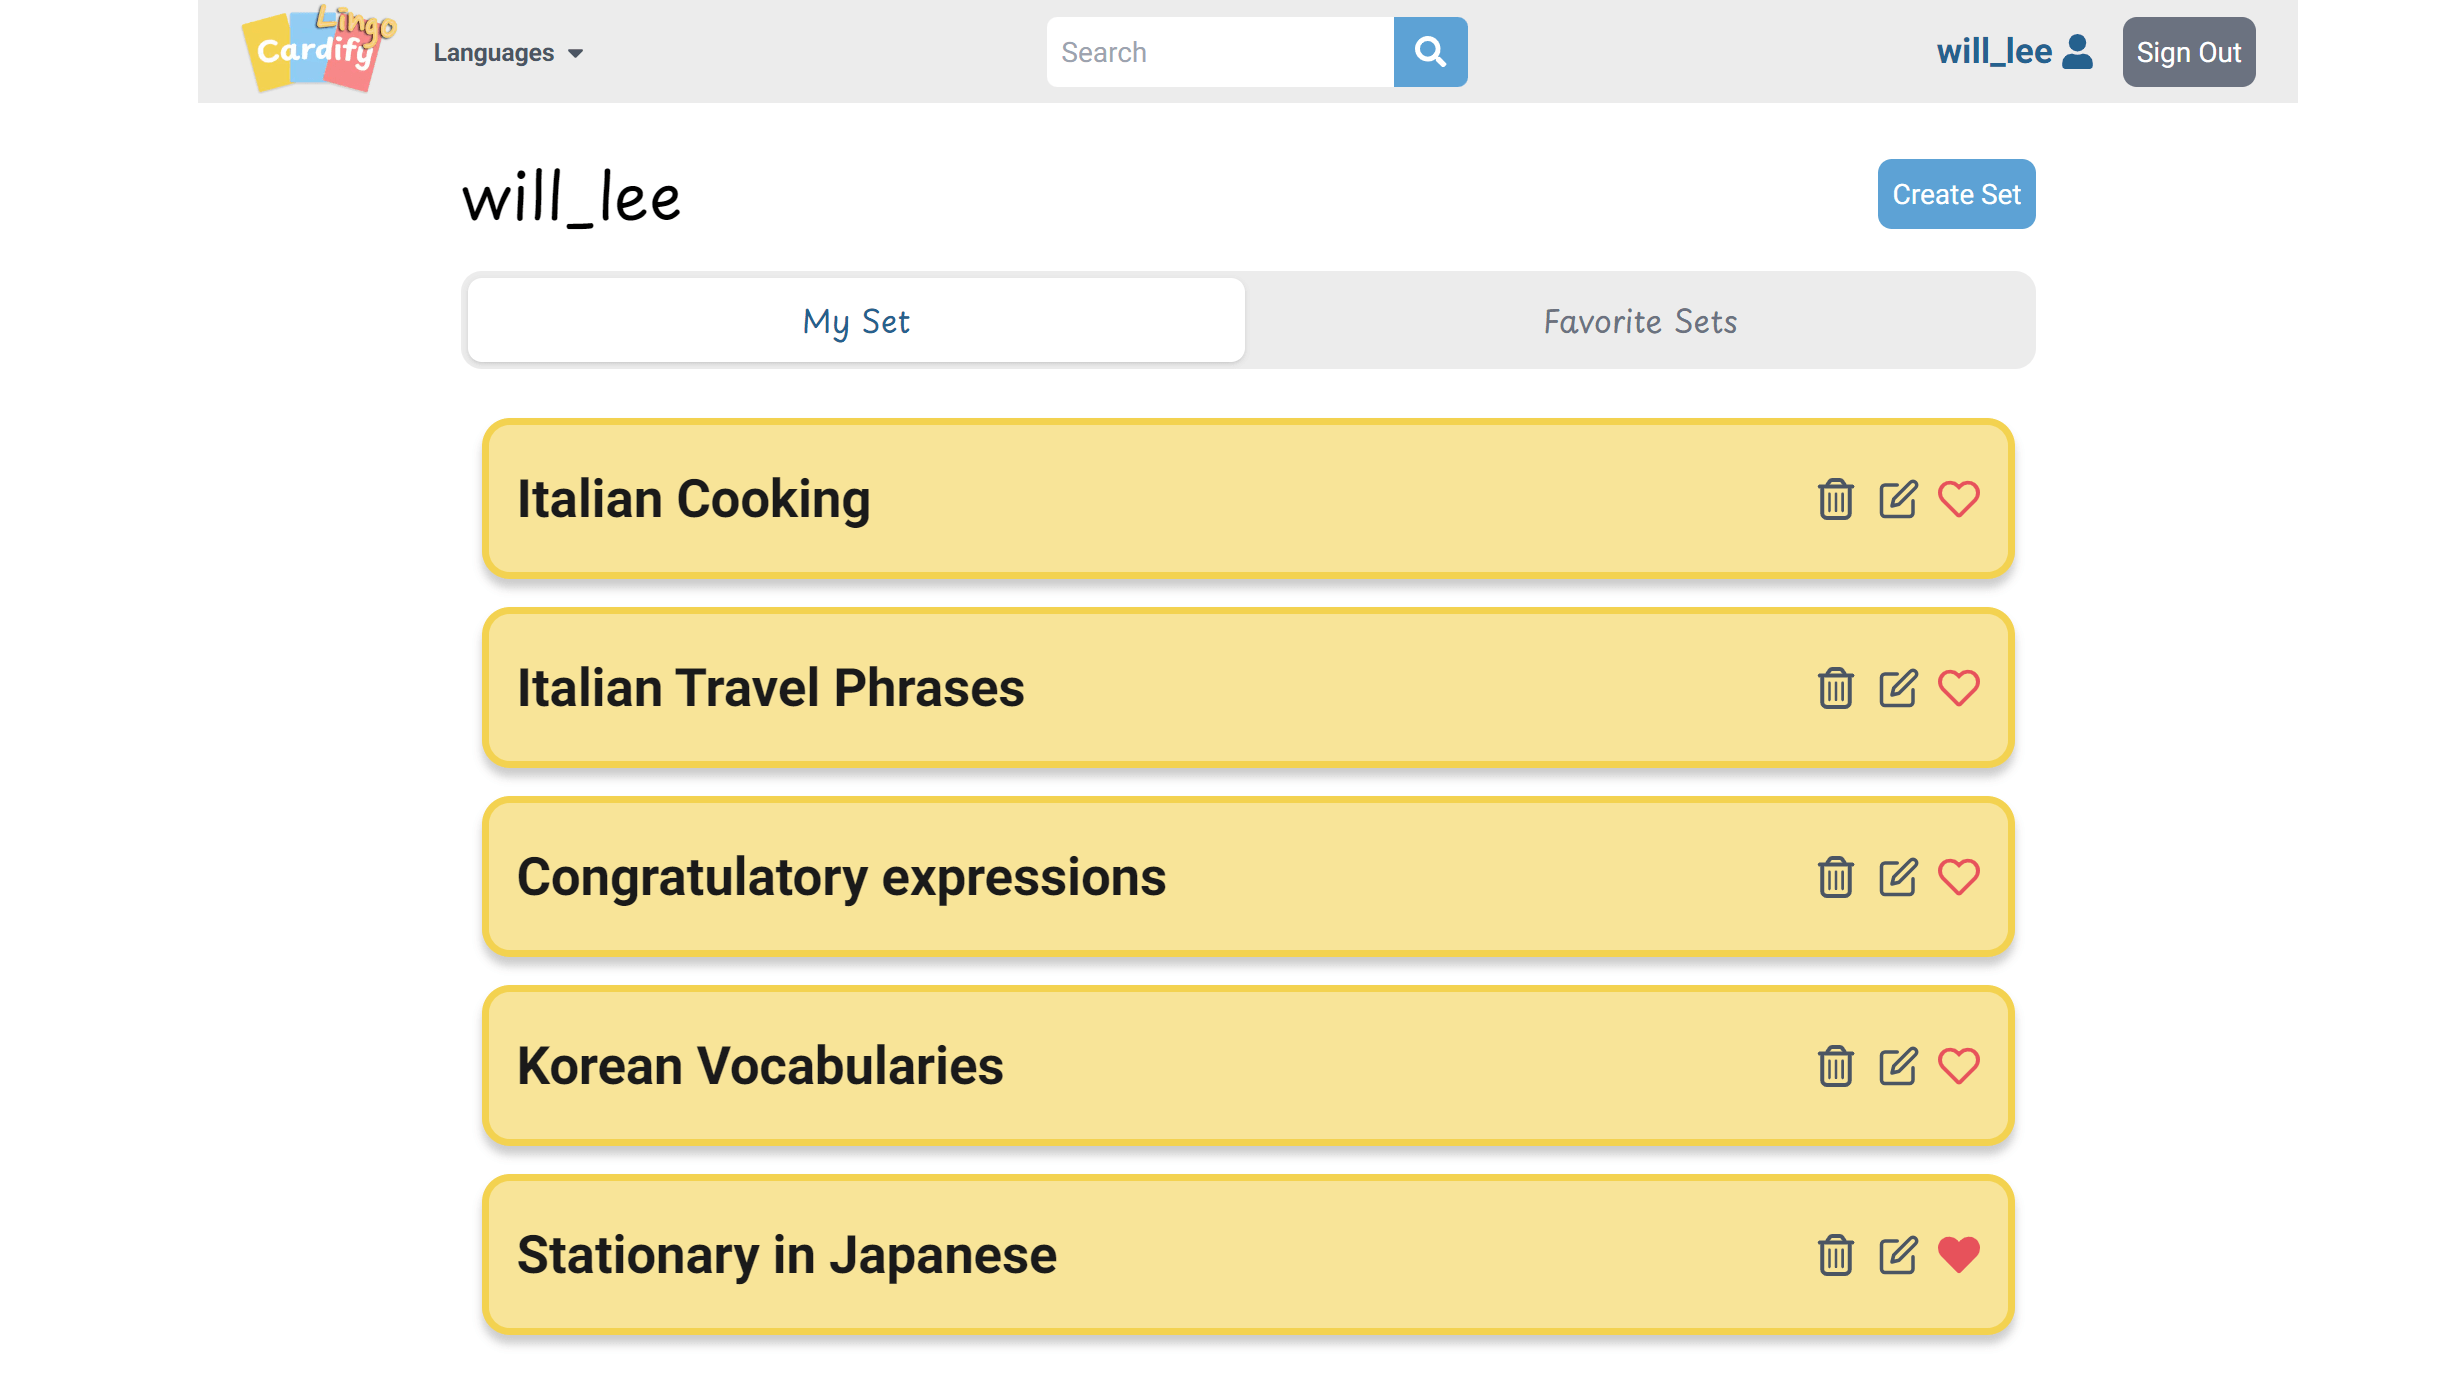
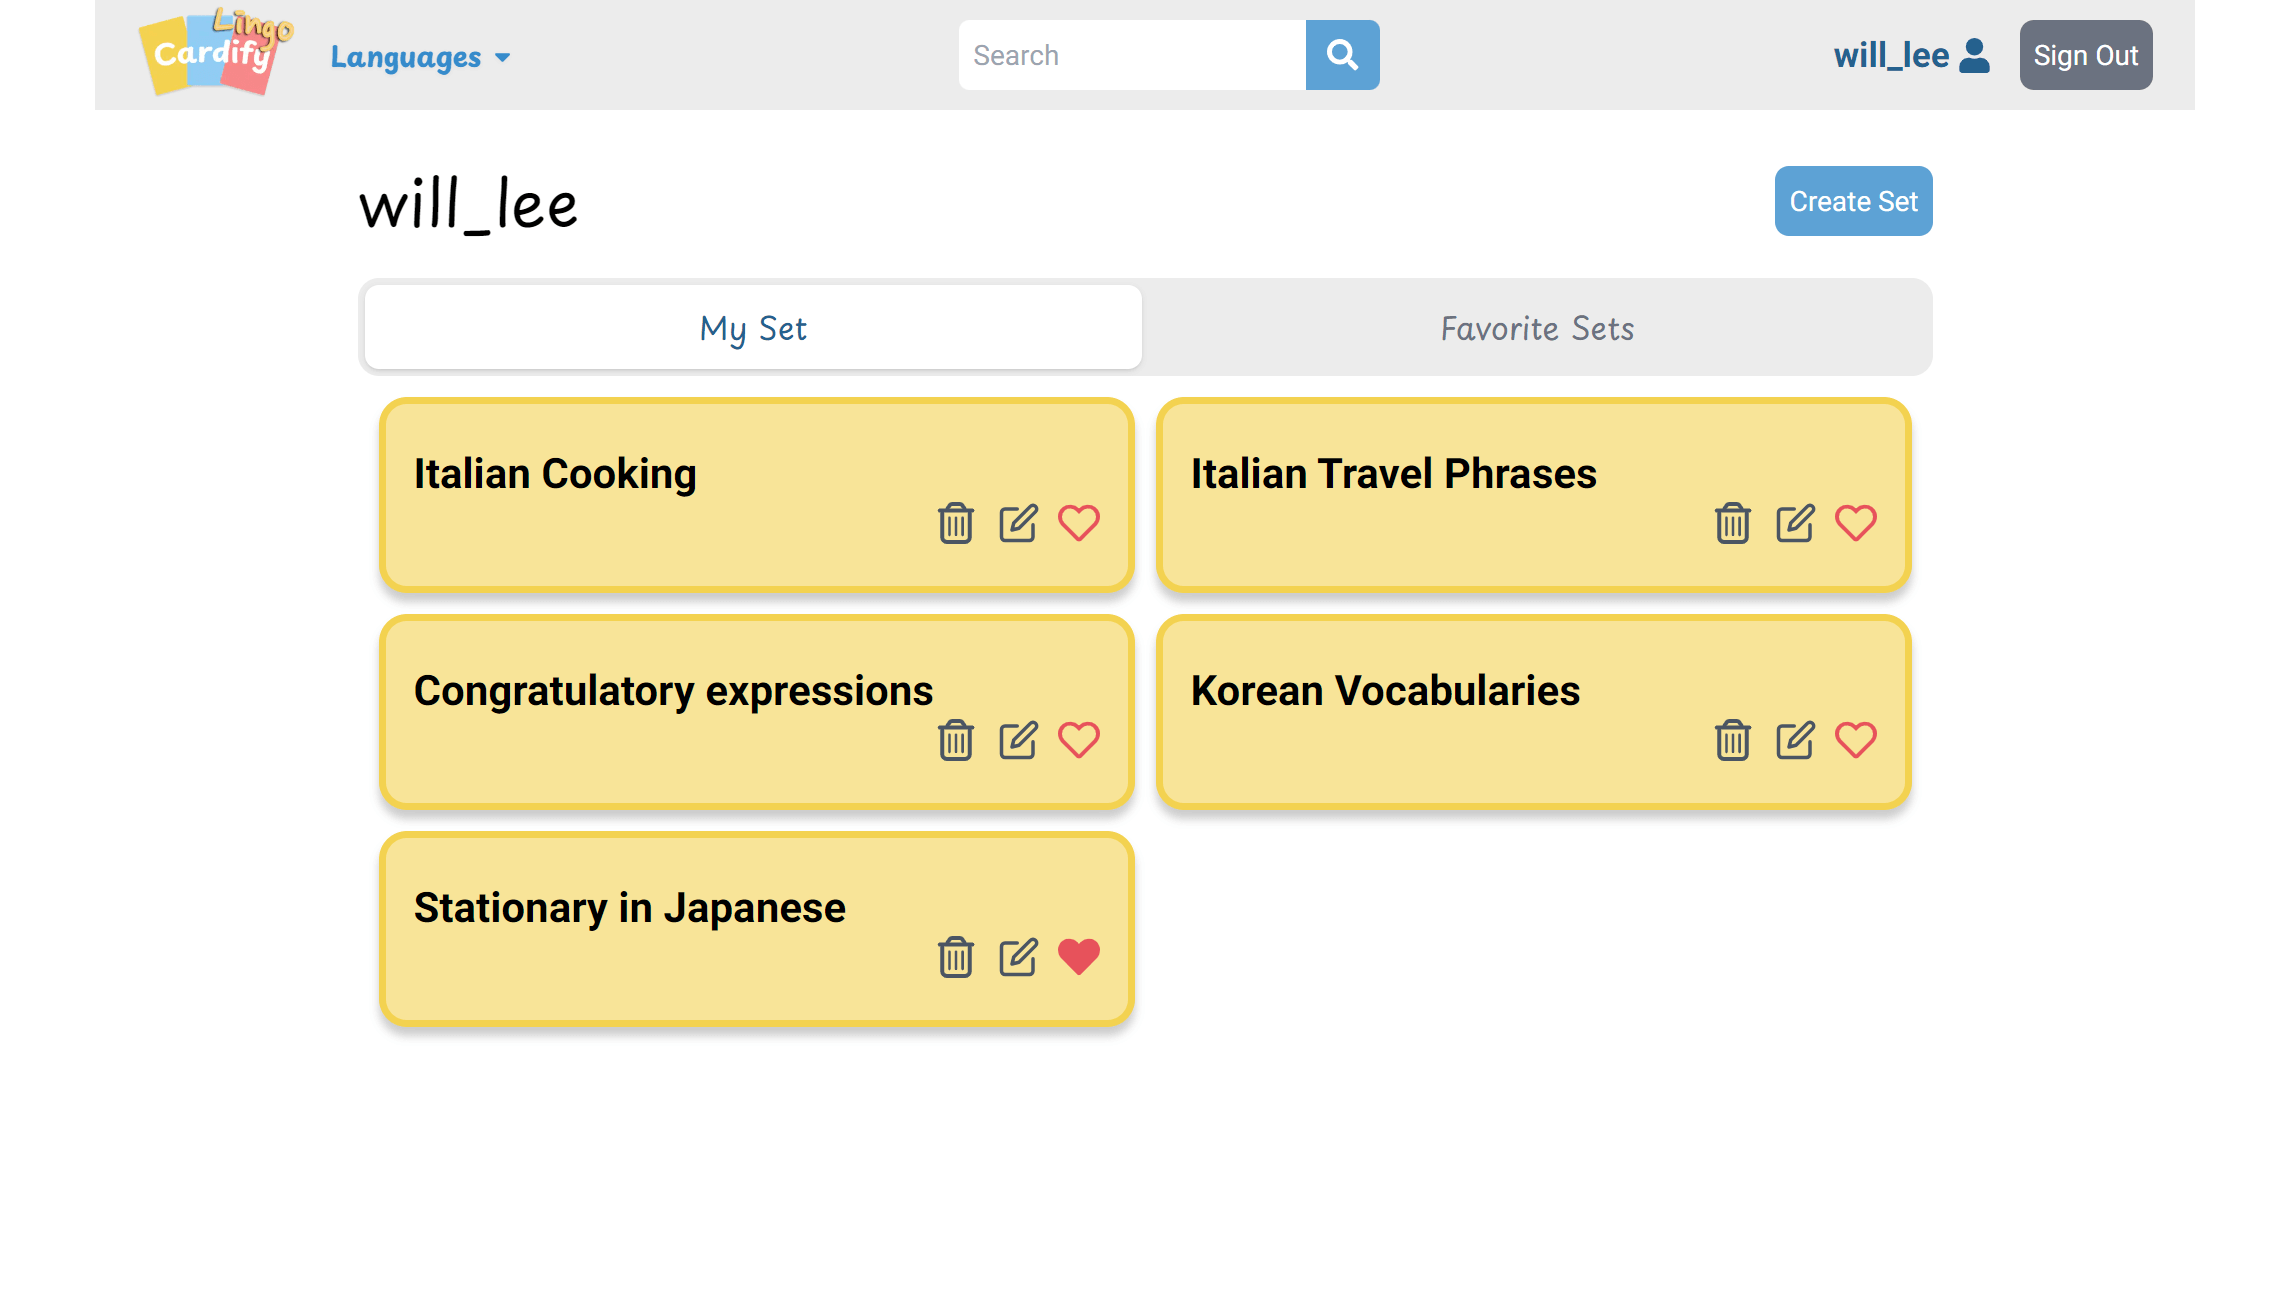
Update screenshots for revise styles and add credits to README

diff --git a/README.md b/README.md
@@ -25,7 +25,7 @@ This project uses [`next/font`](https://nextjs.org/docs/basic-features/font-opti
 [^1]: The Web Speech API is predominantly supported by Google browsers. Chrome (desktop) offers the smoothest experience. For more information on supported browsers, please refer to the [repository](https://github.com/JamesBrill/react-speech-recognition) of react-speech-recognition.
 
 ## Screenshots
-
+![Homepage](./docs/cardify-lingo_homepage.png)
 ![Login Page](./docs/cardify-lingo_login.png)
 ![Profile Page](./docs/cardify-lingo_profile.png)
 ![Edit Set Page](./docs/cardify-lingo_editset.png)
@@ -92,3 +92,7 @@ bun dev
 ```
 
 3. Open [http://localhost:3000](http://localhost:3000) with your browser to see the result.
+
+## Credits
+
+The banner background image is originally from <a href="https://www.freepik.com/free-vector/flat-international-mother-language-day-background_21779356.htm#query=foreign%20language&position=45&from_view=search&track=ais&uuid=bfe0efed-8a9a-4bd5-9f24-22c0cbb42369">Freepik</a> and subsequently edited by me.
